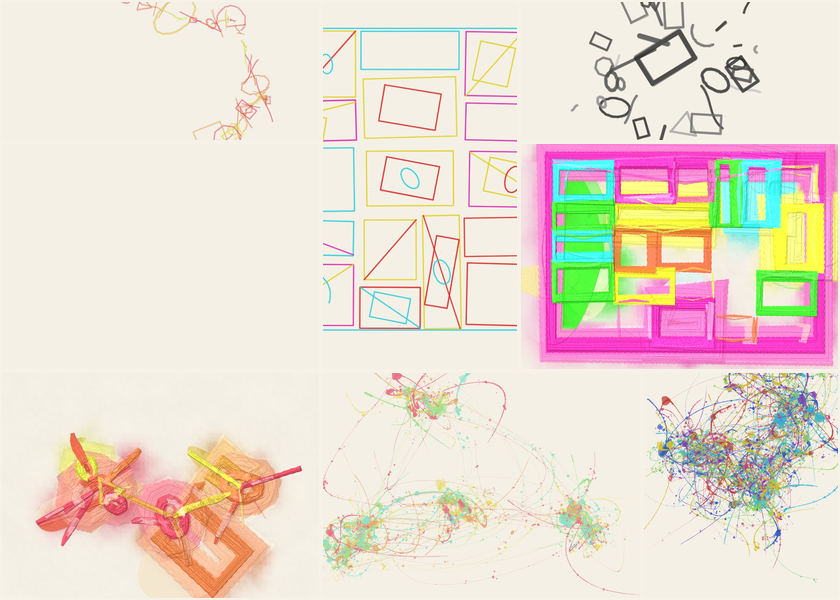
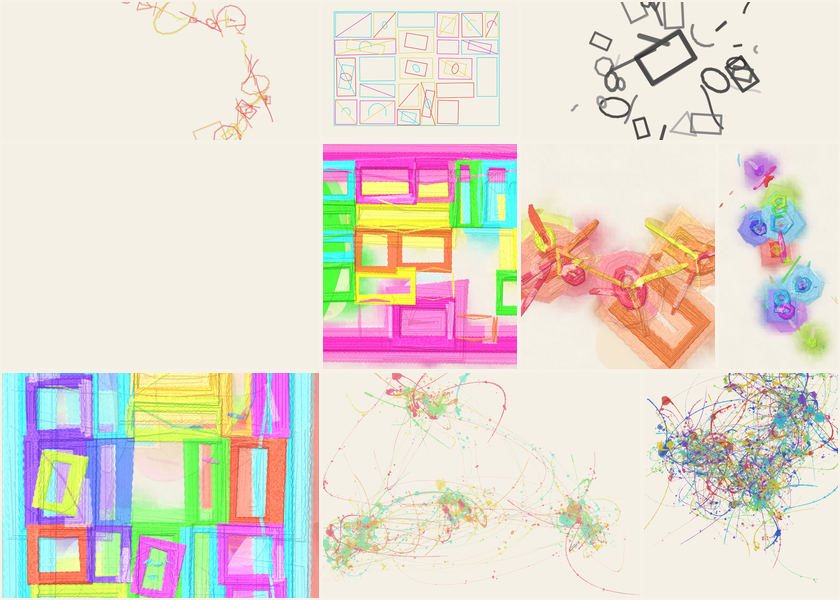
Archive ALGO ART gallery 2026-10-30

diff --git a/gallery/2026-10-30/index.html b/gallery/2026-10-30/index.html
@@ -4,7 +4,7 @@
 <meta charset="utf-8">
 <meta name="viewport" content="width=device-width,initial-scale=1">
 <title>PROPORTION PIECE Daily Gallery — 30 October 2026 | Golden Ratio Generative Art</title>
-<meta name="description" content="8 drawings made on 30 October 2026. Different materials, different compositions, and room to make each one your own.">
+<meta name="description" content="10 drawings made on 30 October 2026. Different materials, different compositions, and room to make each one your own.">
 <meta name="robots" content="index,follow,max-image-preview:large">
 <link rel="canonical" href="https://southernadd-cmyk.github.io/algoart/gallery/2026-10-30/">
 <link rel="icon" type="image/svg+xml" href="../../favicon.svg">
@@ -16,16 +16,16 @@
 <meta property="og:type" content="website">
 <meta property="og:site_name" content="PROPORTION PIECE">
 <meta property="og:title" content="PROPORTION PIECE Daily Gallery — 30 October 2026 | Golden Ratio Generative Art">
-<meta property="og:description" content="8 drawings made on 30 October 2026. Different materials, different compositions, and room to make each one your own.">
+<meta property="og:description" content="10 drawings made on 30 October 2026. Different materials, different compositions, and room to make each one your own.">
 <meta property="og:url" content="https://southernadd-cmyk.github.io/algoart/gallery/2026-10-30/">
 <meta property="og:image" content="https://southernadd-cmyk.github.io/algoart/gallery/2026-10-30/2026-10-30-01-spiral-AA-20261030-01-03093.jpg">
 <meta property="og:image:width" content="1400">
 <meta property="og:image:height" content="1000">
 <meta name="twitter:card" content="summary_large_image">
 <meta name="twitter:title" content="PROPORTION PIECE Daily Gallery — 30 October 2026 | Golden Ratio Generative Art">
-<meta name="twitter:description" content="8 drawings made on 30 October 2026. Different materials, different compositions, and room to make each one your own.">
+<meta name="twitter:description" content="10 drawings made on 30 October 2026. Different materials, different compositions, and room to make each one your own.">
 <meta name="twitter:image" content="https://southernadd-cmyk.github.io/algoart/gallery/2026-10-30/2026-10-30-01-spiral-AA-20261030-01-03093.jpg">
-<script type="application/ld+json">{"@context":"https://schema.org","@type":"CollectionPage","name":"PROPORTION PIECE Daily Gallery — 30 October 2026","description":"8 drawings made on 30 October 2026. Different materials, different compositions, and room to make each one your own.","url":"https://southernadd-cmyk.github.io/algoart/gallery/2026-10-30/","isPartOf":{"@type":"WebSite","name":"PROPORTION PIECE","url":"https://southernadd-cmyk.github.io/algoart/"},"about":["generative art","algorithmic art","golden ratio","creative coding","digital marker art"],"mainEntity":{"@type":"ItemList","numberOfItems":8,"itemListElement":[{"@type":"ListItem","position":1,"item":{"@type":"VisualArtwork","name":"Golden Trajectories — Study 01","description":"Golden Trajectories generative marker artwork using seed AA-20261030-01-03093, 99% Additional φ pull, dry pen and the warm palette.","image":"https://southernadd-cmyk.github.io/algoart/gallery/2026-10-30/2026-10-30-01-spiral-AA-20261030-01-03093.jpg","url":"https://southernadd-cmyk.github.io/algoart/?v=8&seed=AA-20261030-01-03093&mode=spiral&el=54&den=65&cx=73&neg=22&phi=99&rec=4&spi=86&ga=100&nest=23&pen=dry&th=5&wob=49&od=2&op=66&pr=34&dry=36&curve=68&shape=49&overlap=64&rot=68&ln=1&ci=1&re=1&po=1&ar=1&pal=warm&cols=7&sat=68&bri=58&paper=%23f5f0e6&grain=19&sheet=phi","artform":"Generative digital marker art","artMedium":"Browser canvas and deterministic algorithm","creator":{"@type":"Organization","name":"PROPORTION PIECE","url":"https://southernadd-cmyk.github.io/algoart/"}}},{"@type":"ListItem","position":2,"item":{"@type":"VisualArtwork","name":"Recursive Divisions — Study 02","description":"Recursive Divisions generative marker artwork using seed AA-20261030-02-25474, 98% Additional φ pull, fine pen and the cmyk palette.","image":"https://southernadd-cmyk.github.io/algoart/gallery/2026-10-30/2026-10-30-02-rects-AA-20261030-02-25474.jpg","url":"https://southernadd-cmyk.github.io/algoart/?v=8&seed=AA-20261030-02-25474&mode=rects&el=44&den=43&cx=72&neg=18&phi=98&rec=4&spi=21&ga=99&nest=44&pen=fine&th=7&wob=38&od=6&op=77&pr=28&dry=25&curve=12&shape=55&overlap=64&rot=60&ln=1&ci=1&re=1&po=1&ar=1&pal=cmyk&cols=4&sat=76&bri=52&paper=%23f5f0e6&grain=21&sheet=phi","artform":"Generative digital marker art","artMedium":"Browser canvas and deterministic algorithm","creator":{"@type":"Organization","name":"PROPORTION PIECE","url":"https://southernadd-cmyk.github.io/algoart/"}}},{"@type":"ListItem","position":3,"item":{"@type":"VisualArtwork","name":"Orbital Studies — Study 03","description":"Orbital Studies generative marker artwork using seed AP-20261030-01-72940, 98% Additional φ pull, felt pen and the mono palette.","image":"https://southernadd-cmyk.github.io/algoart/gallery/2026-10-30/2026-10-30-portrait-01-field-AP-20261030-01-72940.jpg","url":"https://southernadd-cmyk.github.io/algoart/?v=8&seed=AP-20261030-01-72940&mode=field&fmt=portrait&el=48&den=66&cx=73&neg=35&phi=98&rec=8&spi=50&ga=90&nest=24&pen=felt&th=9&wob=25&od=3&op=75&pr=42&dry=13&curve=51&shape=78&overlap=45&rot=98&ln=1&ci=1&re=1&po=1&ar=1&pal=mono&cols=6&sat=73&bri=50&paper=%23f5f0e6&grain=22&sheet=phi","artform":"Generative digital marker art","artMedium":"Browser canvas and deterministic algorithm","creator":{"@type":"Organization","name":"PROPORTION PIECE","url":"https://southernadd-cmyk.github.io/algoart/"}}},{"@type":"ListItem","position":4,"item":{"@type":"VisualArtwork","name":"Golden Trajectories — Study 04","description":"Golden Trajectories generative marker artwork using seed AP-20261030-02-50559, 85% Additional φ pull, dry pen and the neon palette.","image":"https://southernadd-cmyk.github.io/algoart/gallery/2026-10-30/2026-10-30-portrait-02-spiral-AP-20261030-02-50559.jpg","url":"https://southernadd-cmyk.github.io/algoart/?v=8&seed=AP-20261030-02-50559&mode=spiral&fmt=portrait&el=49&den=44&cx=49&neg=15&phi=85&rec=7&spi=90&ga=95&nest=25&pen=dry&th=13&wob=41&od=4&op=76&pr=54&dry=28&curve=71&shape=72&overlap=57&rot=82&ln=1&ci=1&re=1&po=1&ar=1&pal=neon&cols=4&sat=73&bri=60&paper=%23f5f0e6&grain=21&sheet=phi","artform":"Generative digital marker art","artMedium":"Browser canvas and deterministic algorithm","creator":{"@type":"Organization","name":"PROPORTION PIECE","url":"https://southernadd-cmyk.github.io/algoart/"}}},{"@type":"ListItem","position":5,"item":{"@type":"VisualArtwork","name":"Recursive Divisions — Tissue & Graphite Study 05","description":"Recursive Divisions Tissue & Graphite artwork using seed AWL-20261030-01-51052 and 87% Additional φ pull.","image":"https://southernadd-cmyk.github.io/algoart/gallery/2026-10-30/2026-10-30-watercolor-landscape-01-rects-AWL-20261030-01-51052.jpg","url":"https://southernadd-cmyk.github.io/algoart/?v=8&seed=AWL-20261030-01-51052&mode=rects&el=30&den=52&cx=72&neg=32&phi=87&rec=4&spi=10&ga=89&nest=57&pen=scribble&th=13&wob=49&od=6&op=70&pr=48&dry=21&curve=18&shape=58&overlap=63&rot=56&ln=1&ci=1&re=1&po=1&ar=1&pal=neon&cols=5&sat=81&bri=45&paper=%23f5f0e6&grain=20&tissue=7&sheet=phi","artform":"Tissue and graphite generative art","artMedium":"Browser canvas and deterministic algorithm","creator":{"@type":"Organization","name":"PROPORTION PIECE","url":"https://southernadd-cmyk.github.io/algoart/"}}},{"@type":"ListItem","position":6,"item":{"@type":"VisualArtwork","name":"Radiant Systems — Tissue & Graphite Study 06","description":"Radiant Systems Tissue & Graphite artwork using seed AWL-20261030-02-67029 and 84% Additional φ pull.","image":"https://southernadd-cmyk.github.io/algoart/gallery/2026-10-30/2026-10-30-watercolor-landscape-02-burst-AWL-20261030-02-67029.jpg","url":"https://southernadd-cmyk.github.io/algoart/?v=8&seed=AWL-20261030-02-67029&mode=burst&el=50&den=71&cx=75&neg=25&phi=84&rec=6&spi=53&ga=94&nest=27&pen=scribble&th=11&wob=37&od=4&op=88&pr=46&dry=22&curve=33&shape=65&overlap=57&rot=76&ln=1&ci=1&re=1&po=1&ar=1&pal=warm&cols=9&sat=70&bri=48&paper=%23f5f0e6&grain=20&tissue=7&sheet=phi","artform":"Tissue and graphite generative art","artMedium":"Browser canvas and deterministic algorithm","creator":{"@type":"Organization","name":"PROPORTION PIECE","url":"https://southernadd-cmyk.github.io/algoart/"}}},{"@type":"ListItem","position":7,"item":{"@type":"VisualArtwork","name":"Automatic Marks — Action Painting Study 07","description":"Automatic Marks Action Painting using seed ACL-20261030-01-80125, the pastel palette and geometry-guided flowing paint.","image":"https://southernadd-cmyk.github.io/algoart/gallery/2026-10-30/2026-10-30-action-landscape-01-scribble-ACL-20261030-01-80125.jpg","url":"https://southernadd-cmyk.github.io/algoart/?v=9&seed=ACL-20261030-01-80125&mode=scribble&el=46&den=37&cx=56&neg=31&phi=93&rec=7&spi=19&ga=87&nest=25&pen=felt&th=11&wob=41&od=5&op=84&pr=32&dry=8&curve=21&shape=52&overlap=33&rot=86&ln=1&ci=1&re=1&po=1&ar=1&pal=pastel&cols=5&sat=71&bri=47&paper=%23f5f0e6&grain=12&material=action-v4&sheet=phi","artform":"Generative action painting","artMedium":"Browser canvas and deterministic algorithm","creator":{"@type":"Organization","name":"PROPORTION PIECE","url":"https://southernadd-cmyk.github.io/algoart/"}}},{"@type":"ListItem","position":8,"item":{"@type":"VisualArtwork","name":"Radiant Systems — Action Painting Study 08","description":"Radiant Systems Action Painting using seed ACP-20261030-01-17643, the golden palette and geometry-guided flowing paint.","image":"https://southernadd-cmyk.github.io/algoart/gallery/2026-10-30/2026-10-30-action-portrait-01-burst-ACP-20261030-01-17643.jpg","url":"https://southernadd-cmyk.github.io/algoart/?v=9&seed=ACP-20261030-01-17643&mode=burst&fmt=portrait&el=54&den=62&cx=67&neg=36&phi=93&rec=5&spi=90&ga=92&nest=58&pen=scribble&th=10&wob=36&od=2&op=64&pr=49&dry=18&curve=55&shape=80&overlap=41&rot=81&ln=1&ci=1&re=1&po=1&ar=1&pal=golden&cols=8&sat=79&bri=47&paper=%23f5f0e6&grain=24&material=action-v4&sheet=phi","artform":"Generative action painting","artMedium":"Browser canvas and deterministic algorithm","creator":{"@type":"Organization","name":"PROPORTION PIECE","url":"https://southernadd-cmyk.github.io/algoart/"}}}]}}</script>
+<script type="application/ld+json">{"@context":"https://schema.org","@type":"CollectionPage","name":"PROPORTION PIECE Daily Gallery — 30 October 2026","description":"10 drawings made on 30 October 2026. Different materials, different compositions, and room to make each one your own.","url":"https://southernadd-cmyk.github.io/algoart/gallery/2026-10-30/","isPartOf":{"@type":"WebSite","name":"PROPORTION PIECE","url":"https://southernadd-cmyk.github.io/algoart/"},"about":["generative art","algorithmic art","golden ratio","creative coding","digital marker art"],"mainEntity":{"@type":"ItemList","numberOfItems":10,"itemListElement":[{"@type":"ListItem","position":1,"item":{"@type":"VisualArtwork","name":"Golden Trajectories — Study 01","description":"Golden Trajectories generative marker artwork using seed AA-20261030-01-03093, 99% Additional φ pull, dry pen and the warm palette.","image":"https://southernadd-cmyk.github.io/algoart/gallery/2026-10-30/2026-10-30-01-spiral-AA-20261030-01-03093.jpg","url":"https://southernadd-cmyk.github.io/algoart/?v=8&seed=AA-20261030-01-03093&mode=spiral&el=54&den=65&cx=73&neg=22&phi=99&rec=4&spi=86&ga=100&nest=23&pen=dry&th=5&wob=49&od=2&op=66&pr=34&dry=36&curve=68&shape=49&overlap=64&rot=68&ln=1&ci=1&re=1&po=1&ar=1&pal=warm&cols=7&sat=68&bri=58&paper=%23f5f0e6&grain=19&sheet=phi","artform":"Generative digital marker art","artMedium":"Browser canvas and deterministic algorithm","creator":{"@type":"Organization","name":"PROPORTION PIECE","url":"https://southernadd-cmyk.github.io/algoart/"}}},{"@type":"ListItem","position":2,"item":{"@type":"VisualArtwork","name":"Recursive Divisions — Study 02","description":"Recursive Divisions generative marker artwork using seed AA-20261030-02-25474, 98% Additional φ pull, fine pen and the cmyk palette.","image":"https://southernadd-cmyk.github.io/algoart/gallery/2026-10-30/2026-10-30-02-rects-AA-20261030-02-25474.jpg","url":"https://southernadd-cmyk.github.io/algoart/?v=8&seed=AA-20261030-02-25474&mode=rects&el=44&den=43&cx=72&neg=18&phi=98&rec=4&spi=21&ga=99&nest=44&pen=fine&th=7&wob=38&od=6&op=77&pr=28&dry=25&curve=12&shape=55&overlap=64&rot=60&ln=1&ci=1&re=1&po=1&ar=1&pal=cmyk&cols=4&sat=76&bri=52&paper=%23f5f0e6&grain=21&sheet=phi","artform":"Generative digital marker art","artMedium":"Browser canvas and deterministic algorithm","creator":{"@type":"Organization","name":"PROPORTION PIECE","url":"https://southernadd-cmyk.github.io/algoart/"}}},{"@type":"ListItem","position":3,"item":{"@type":"VisualArtwork","name":"Orbital Studies — Study 03","description":"Orbital Studies generative marker artwork using seed AP-20261030-01-72940, 98% Additional φ pull, felt pen and the mono palette.","image":"https://southernadd-cmyk.github.io/algoart/gallery/2026-10-30/2026-10-30-portrait-01-field-AP-20261030-01-72940.jpg","url":"https://southernadd-cmyk.github.io/algoart/?v=8&seed=AP-20261030-01-72940&mode=field&fmt=portrait&el=48&den=66&cx=73&neg=35&phi=98&rec=8&spi=50&ga=90&nest=24&pen=felt&th=9&wob=25&od=3&op=75&pr=42&dry=13&curve=51&shape=78&overlap=45&rot=98&ln=1&ci=1&re=1&po=1&ar=1&pal=mono&cols=6&sat=73&bri=50&paper=%23f5f0e6&grain=22&sheet=phi","artform":"Generative digital marker art","artMedium":"Browser canvas and deterministic algorithm","creator":{"@type":"Organization","name":"PROPORTION PIECE","url":"https://southernadd-cmyk.github.io/algoart/"}}},{"@type":"ListItem","position":4,"item":{"@type":"VisualArtwork","name":"Golden Trajectories — Study 04","description":"Golden Trajectories generative marker artwork using seed AP-20261030-02-50559, 85% Additional φ pull, dry pen and the neon palette.","image":"https://southernadd-cmyk.github.io/algoart/gallery/2026-10-30/2026-10-30-portrait-02-spiral-AP-20261030-02-50559.jpg","url":"https://southernadd-cmyk.github.io/algoart/?v=8&seed=AP-20261030-02-50559&mode=spiral&fmt=portrait&el=49&den=44&cx=49&neg=15&phi=85&rec=7&spi=90&ga=95&nest=25&pen=dry&th=13&wob=41&od=4&op=76&pr=54&dry=28&curve=71&shape=72&overlap=57&rot=82&ln=1&ci=1&re=1&po=1&ar=1&pal=neon&cols=4&sat=73&bri=60&paper=%23f5f0e6&grain=21&sheet=phi","artform":"Generative digital marker art","artMedium":"Browser canvas and deterministic algorithm","creator":{"@type":"Organization","name":"PROPORTION PIECE","url":"https://southernadd-cmyk.github.io/algoart/"}}},{"@type":"ListItem","position":5,"item":{"@type":"VisualArtwork","name":"Recursive Divisions — Tissue & Graphite Study 05","description":"Recursive Divisions Tissue & Graphite artwork using seed AWL-20261030-01-51052 and 87% Additional φ pull.","image":"https://southernadd-cmyk.github.io/algoart/gallery/2026-10-30/2026-10-30-watercolor-landscape-01-rects-AWL-20261030-01-51052.jpg","url":"https://southernadd-cmyk.github.io/algoart/?v=8&seed=AWL-20261030-01-51052&mode=rects&el=30&den=52&cx=72&neg=32&phi=87&rec=4&spi=10&ga=89&nest=57&pen=scribble&th=13&wob=49&od=6&op=70&pr=48&dry=21&curve=18&shape=58&overlap=63&rot=56&ln=1&ci=1&re=1&po=1&ar=1&pal=neon&cols=5&sat=81&bri=45&paper=%23f5f0e6&grain=20&tissue=7&sheet=phi","artform":"Tissue and graphite generative art","artMedium":"Browser canvas and deterministic algorithm","creator":{"@type":"Organization","name":"PROPORTION PIECE","url":"https://southernadd-cmyk.github.io/algoart/"}}},{"@type":"ListItem","position":6,"item":{"@type":"VisualArtwork","name":"Radiant Systems — Tissue & Graphite Study 06","description":"Radiant Systems Tissue & Graphite artwork using seed AWL-20261030-02-67029 and 84% Additional φ pull.","image":"https://southernadd-cmyk.github.io/algoart/gallery/2026-10-30/2026-10-30-watercolor-landscape-02-burst-AWL-20261030-02-67029.jpg","url":"https://southernadd-cmyk.github.io/algoart/?v=8&seed=AWL-20261030-02-67029&mode=burst&el=50&den=71&cx=75&neg=25&phi=84&rec=6&spi=53&ga=94&nest=27&pen=scribble&th=11&wob=37&od=4&op=88&pr=46&dry=22&curve=33&shape=65&overlap=57&rot=76&ln=1&ci=1&re=1&po=1&ar=1&pal=warm&cols=9&sat=70&bri=48&paper=%23f5f0e6&grain=20&tissue=7&sheet=phi","artform":"Tissue and graphite generative art","artMedium":"Browser canvas and deterministic algorithm","creator":{"@type":"Organization","name":"PROPORTION PIECE","url":"https://southernadd-cmyk.github.io/algoart/"}}},{"@type":"ListItem","position":7,"item":{"@type":"VisualArtwork","name":"Golden Trajectories — Tissue & Graphite Study 07","description":"Golden Trajectories Tissue & Graphite artwork using seed AWP-20261030-01-66888 and 90% Additional φ pull.","image":"https://southernadd-cmyk.github.io/algoart/gallery/2026-10-30/2026-10-30-watercolor-portrait-01-spiral-AWP-20261030-01-66888.jpg","url":"https://southernadd-cmyk.github.io/algoart/?v=8&seed=AWP-20261030-01-66888&mode=spiral&fmt=portrait&el=51&den=46&cx=51&neg=37&phi=90&rec=8&spi=74&ga=89&nest=52&pen=dry&th=10&wob=54&od=6&op=64&pr=32&dry=19&curve=53&shape=49&overlap=35&rot=95&ln=1&ci=1&re=1&po=1&ar=1&pal=spectrum&cols=9&sat=72&bri=44&paper=%23f5f0e6&grain=21&tissue=7&sheet=phi","artform":"Tissue and graphite generative art","artMedium":"Browser canvas and deterministic algorithm","creator":{"@type":"Organization","name":"PROPORTION PIECE","url":"https://southernadd-cmyk.github.io/algoart/"}}},{"@type":"ListItem","position":8,"item":{"@type":"VisualArtwork","name":"Recursive Divisions — Tissue & Graphite Study 08","description":"Recursive Divisions Tissue & Graphite artwork using seed AWP-20261030-02-79697 and 91% Additional φ pull.","image":"https://southernadd-cmyk.github.io/algoart/gallery/2026-10-30/2026-10-30-watercolor-portrait-02-rects-AWP-20261030-02-79697.jpg","url":"https://southernadd-cmyk.github.io/algoart/?v=8&seed=AWP-20261030-02-79697&mode=rects&fmt=portrait&el=31&den=52&cx=72&neg=12&phi=91&rec=5&spi=25&ga=93&nest=58&pen=scribble&th=11&wob=44&od=4&op=73&pr=47&dry=22&curve=12&shape=48&overlap=34&rot=67&ln=1&ci=1&re=1&po=1&ar=1&pal=spectrum&cols=10&sat=88&bri=56&paper=%23f5f0e6&grain=14&tissue=7&sheet=phi","artform":"Tissue and graphite generative art","artMedium":"Browser canvas and deterministic algorithm","creator":{"@type":"Organization","name":"PROPORTION PIECE","url":"https://southernadd-cmyk.github.io/algoart/"}}},{"@type":"ListItem","position":9,"item":{"@type":"VisualArtwork","name":"Automatic Marks — Action Painting Study 09","description":"Automatic Marks Action Painting using seed ACL-20261030-01-80125, the pastel palette and geometry-guided flowing paint.","image":"https://southernadd-cmyk.github.io/algoart/gallery/2026-10-30/2026-10-30-action-landscape-01-scribble-ACL-20261030-01-80125.jpg","url":"https://southernadd-cmyk.github.io/algoart/?v=9&seed=ACL-20261030-01-80125&mode=scribble&el=46&den=37&cx=56&neg=31&phi=93&rec=7&spi=19&ga=87&nest=25&pen=felt&th=11&wob=41&od=5&op=84&pr=32&dry=8&curve=21&shape=52&overlap=33&rot=86&ln=1&ci=1&re=1&po=1&ar=1&pal=pastel&cols=5&sat=71&bri=47&paper=%23f5f0e6&grain=12&material=action-v4&sheet=phi","artform":"Generative action painting","artMedium":"Browser canvas and deterministic algorithm","creator":{"@type":"Organization","name":"PROPORTION PIECE","url":"https://southernadd-cmyk.github.io/algoart/"}}},{"@type":"ListItem","position":10,"item":{"@type":"VisualArtwork","name":"Radiant Systems — Action Painting Study 10","description":"Radiant Systems Action Painting using seed ACP-20261030-01-17643, the golden palette and geometry-guided flowing paint.","image":"https://southernadd-cmyk.github.io/algoart/gallery/2026-10-30/2026-10-30-action-portrait-01-burst-ACP-20261030-01-17643.jpg","url":"https://southernadd-cmyk.github.io/algoart/?v=9&seed=ACP-20261030-01-17643&mode=burst&fmt=portrait&el=54&den=62&cx=67&neg=36&phi=93&rec=5&spi=90&ga=92&nest=58&pen=scribble&th=10&wob=36&od=2&op=64&pr=49&dry=18&curve=55&shape=80&overlap=41&rot=81&ln=1&ci=1&re=1&po=1&ar=1&pal=golden&cols=8&sat=79&bri=47&paper=%23f5f0e6&grain=24&material=action-v4&sheet=phi","artform":"Generative action painting","artMedium":"Browser canvas and deterministic algorithm","creator":{"@type":"Organization","name":"PROPORTION PIECE","url":"https://southernadd-cmyk.github.io/algoart/"}}}]}}</script>
 </head>
 <body>
 <header class="algo-global-header">
@@ -38,9 +38,9 @@
   <section class="hero">
     <div class="kicker">DAILY ARCHIVE / 2026-10-30</div>
     <h1>Drawings from<br>30 October 2026.</h1>
-    <p>8 drawings made on 30 October 2026. Different materials, different compositions, and room to make each one your own.</p>
+    <p>10 drawings made on 30 October 2026. Different materials, different compositions, and room to make each one your own.</p>
     <p class="visit-day-link"><a href="../visit/?date=2026-10-30">Walk this floor in 3D →</a></p>
-    <div class="hero-meta"><span>8 drawings</span><span>Different materials</span><span>Each one can be revisited</span></div>
+    <div class="hero-meta"><span>10 drawings</span><span>Different materials</span><span>Each one can be revisited</span></div>
   </section>
   <section class="grid" aria-label="Artwork generated on 30 October 2026">
     
@@ -176,12 +176,56 @@
       </div>
     </article>
 
-    <article id="2026-10-30-ACL01" class="art-card" data-orientation="landscape" data-material="action">
-      <a class="art-image-link" href="https://southernadd-cmyk.github.io/algoart/?v=9&amp;seed=ACL-20261030-01-80125&amp;mode=scribble&amp;el=46&amp;den=37&amp;cx=56&amp;neg=31&amp;phi=93&amp;rec=7&amp;spi=19&amp;ga=87&amp;nest=25&amp;pen=felt&amp;th=11&amp;wob=41&amp;od=5&amp;op=84&amp;pr=32&amp;dry=8&amp;curve=21&amp;shape=52&amp;overlap=33&amp;rot=86&amp;ln=1&amp;ci=1&amp;re=1&amp;po=1&amp;ar=1&amp;pal=pastel&amp;cols=5&amp;sat=71&amp;bri=47&amp;paper=%23f5f0e6&amp;grain=12&amp;material=action-v4&amp;sheet=phi" aria-label="Open and remix Automatic Marks — Action Painting Study 07 in PROPORTION PIECE">
-        <img src="2026-10-30-action-landscape-01-scribble-ACL-20261030-01-80125.jpg" width="1400" height="1000" loading="lazy" decoding="async" alt="Action painting from PROPORTION PIECE&#39;s Automatic Marks system, seed ACL-20261030-01-80125. Flowing paint skeins, irregular pools and splashes drawn from golden-ratio source geometry.">
+    <article id="2026-10-30-WP01" class="art-card" data-orientation="portrait" data-material="watercolor">
+      <a class="art-image-link" href="https://southernadd-cmyk.github.io/algoart/?v=8&amp;seed=AWP-20261030-01-66888&amp;mode=spiral&amp;fmt=portrait&amp;el=51&amp;den=46&amp;cx=51&amp;neg=37&amp;phi=90&amp;rec=8&amp;spi=74&amp;ga=89&amp;nest=52&amp;pen=dry&amp;th=10&amp;wob=54&amp;od=6&amp;op=64&amp;pr=32&amp;dry=19&amp;curve=53&amp;shape=49&amp;overlap=35&amp;rot=95&amp;ln=1&amp;ci=1&amp;re=1&amp;po=1&amp;ar=1&amp;pal=spectrum&amp;cols=9&amp;sat=72&amp;bri=44&amp;paper=%23f5f0e6&amp;grain=21&amp;tissue=7&amp;sheet=phi" aria-label="Open and remix Golden Trajectories — Tissue &amp; Graphite Study 07 in PROPORTION PIECE">
+        <img src="2026-10-30-watercolor-portrait-01-spiral-AWP-20261030-01-66888.jpg" width="1000" height="1400" loading="lazy" decoding="async" alt="Tissue and graphite artwork from PROPORTION PIECE&#39;s Golden Trajectories system, portrait study · seed AWP-20261030-01-66888. Golden-ratio composition with layered translucent colour, textured paper and darker marks.">
       </a>
       <div class="art-info">
         <div class="art-number">07</div>
+        <div>
+          <h2>Golden Trajectories · Tissue &amp; Graphite</h2>
+          
+          <dl>
+            <div><dt>Seed</dt><dd>AWP-20261030-01-66888</dd></div>
+            <div><dt>Series</dt><dd>Golden Trajectories</dd></div>
+            <div><dt>Format</dt><dd>Portrait · 1000 × 1400</dd></div>
+            <div><dt>Additional φ pull</dt><dd>90%</dd></div>
+            <div><dt>Material</dt><dd>Tissue &amp; Graphite</dd></div>
+            <div><dt>Palette</dt><dd>spectrum</dd></div>
+          </dl>
+          <a class="remix" href="https://southernadd-cmyk.github.io/algoart/?v=8&amp;seed=AWP-20261030-01-66888&amp;mode=spiral&amp;fmt=portrait&amp;el=51&amp;den=46&amp;cx=51&amp;neg=37&amp;phi=90&amp;rec=8&amp;spi=74&amp;ga=89&amp;nest=52&amp;pen=dry&amp;th=10&amp;wob=54&amp;od=6&amp;op=64&amp;pr=32&amp;dry=19&amp;curve=53&amp;shape=49&amp;overlap=35&amp;rot=95&amp;ln=1&amp;ci=1&amp;re=1&amp;po=1&amp;ar=1&amp;pal=spectrum&amp;cols=9&amp;sat=72&amp;bri=44&amp;paper=%23f5f0e6&amp;grain=21&amp;tissue=7&amp;sheet=phi">Open this drawing →</a>
+        </div>
+      </div>
+    </article>
+
+    <article id="2026-10-30-WP02" class="art-card" data-orientation="portrait" data-material="watercolor">
+      <a class="art-image-link" href="https://southernadd-cmyk.github.io/algoart/?v=8&amp;seed=AWP-20261030-02-79697&amp;mode=rects&amp;fmt=portrait&amp;el=31&amp;den=52&amp;cx=72&amp;neg=12&amp;phi=91&amp;rec=5&amp;spi=25&amp;ga=93&amp;nest=58&amp;pen=scribble&amp;th=11&amp;wob=44&amp;od=4&amp;op=73&amp;pr=47&amp;dry=22&amp;curve=12&amp;shape=48&amp;overlap=34&amp;rot=67&amp;ln=1&amp;ci=1&amp;re=1&amp;po=1&amp;ar=1&amp;pal=spectrum&amp;cols=10&amp;sat=88&amp;bri=56&amp;paper=%23f5f0e6&amp;grain=14&amp;tissue=7&amp;sheet=phi" aria-label="Open and remix Recursive Divisions — Tissue &amp; Graphite Study 08 in PROPORTION PIECE">
+        <img src="2026-10-30-watercolor-portrait-02-rects-AWP-20261030-02-79697.jpg" width="1000" height="1400" loading="lazy" decoding="async" alt="Tissue and graphite artwork from PROPORTION PIECE&#39;s Recursive Divisions system, portrait study · seed AWP-20261030-02-79697. Golden-ratio composition with layered translucent colour, textured paper and darker marks.">
+      </a>
+      <div class="art-info">
+        <div class="art-number">08</div>
+        <div>
+          <h2>Recursive Divisions · Tissue &amp; Graphite</h2>
+          
+          <dl>
+            <div><dt>Seed</dt><dd>AWP-20261030-02-79697</dd></div>
+            <div><dt>Series</dt><dd>Recursive Divisions</dd></div>
+            <div><dt>Format</dt><dd>Portrait · 1000 × 1400</dd></div>
+            <div><dt>Additional φ pull</dt><dd>91%</dd></div>
+            <div><dt>Material</dt><dd>Tissue &amp; Graphite</dd></div>
+            <div><dt>Palette</dt><dd>spectrum</dd></div>
+          </dl>
+          <a class="remix" href="https://southernadd-cmyk.github.io/algoart/?v=8&amp;seed=AWP-20261030-02-79697&amp;mode=rects&amp;fmt=portrait&amp;el=31&amp;den=52&amp;cx=72&amp;neg=12&amp;phi=91&amp;rec=5&amp;spi=25&amp;ga=93&amp;nest=58&amp;pen=scribble&amp;th=11&amp;wob=44&amp;od=4&amp;op=73&amp;pr=47&amp;dry=22&amp;curve=12&amp;shape=48&amp;overlap=34&amp;rot=67&amp;ln=1&amp;ci=1&amp;re=1&amp;po=1&amp;ar=1&amp;pal=spectrum&amp;cols=10&amp;sat=88&amp;bri=56&amp;paper=%23f5f0e6&amp;grain=14&amp;tissue=7&amp;sheet=phi">Open this drawing →</a>
+        </div>
+      </div>
+    </article>
+
+    <article id="2026-10-30-ACL01" class="art-card" data-orientation="landscape" data-material="action">
+      <a class="art-image-link" href="https://southernadd-cmyk.github.io/algoart/?v=9&amp;seed=ACL-20261030-01-80125&amp;mode=scribble&amp;el=46&amp;den=37&amp;cx=56&amp;neg=31&amp;phi=93&amp;rec=7&amp;spi=19&amp;ga=87&amp;nest=25&amp;pen=felt&amp;th=11&amp;wob=41&amp;od=5&amp;op=84&amp;pr=32&amp;dry=8&amp;curve=21&amp;shape=52&amp;overlap=33&amp;rot=86&amp;ln=1&amp;ci=1&amp;re=1&amp;po=1&amp;ar=1&amp;pal=pastel&amp;cols=5&amp;sat=71&amp;bri=47&amp;paper=%23f5f0e6&amp;grain=12&amp;material=action-v4&amp;sheet=phi" aria-label="Open and remix Automatic Marks — Action Painting Study 09 in PROPORTION PIECE">
+        <img src="2026-10-30-action-landscape-01-scribble-ACL-20261030-01-80125.jpg" width="1400" height="1000" loading="lazy" decoding="async" alt="Action painting from PROPORTION PIECE&#39;s Automatic Marks system, seed ACL-20261030-01-80125. Flowing paint skeins, irregular pools and splashes drawn from golden-ratio source geometry.">
+      </a>
+      <div class="art-info">
+        <div class="art-number">09</div>
         <div>
           <h2>Automatic Marks · Action Painting</h2>
           
@@ -199,11 +243,11 @@
     </article>
 
     <article id="2026-10-30-ACP01" class="art-card" data-orientation="portrait" data-material="action">
-      <a class="art-image-link" href="https://southernadd-cmyk.github.io/algoart/?v=9&amp;seed=ACP-20261030-01-17643&amp;mode=burst&amp;fmt=portrait&amp;el=54&amp;den=62&amp;cx=67&amp;neg=36&amp;phi=93&amp;rec=5&amp;spi=90&amp;ga=92&amp;nest=58&amp;pen=scribble&amp;th=10&amp;wob=36&amp;od=2&amp;op=64&amp;pr=49&amp;dry=18&amp;curve=55&amp;shape=80&amp;overlap=41&amp;rot=81&amp;ln=1&amp;ci=1&amp;re=1&amp;po=1&amp;ar=1&amp;pal=golden&amp;cols=8&amp;sat=79&amp;bri=47&amp;paper=%23f5f0e6&amp;grain=24&amp;material=action-v4&amp;sheet=phi" aria-label="Open and remix Radiant Systems — Action Painting Study 08 in PROPORTION PIECE">
+      <a class="art-image-link" href="https://southernadd-cmyk.github.io/algoart/?v=9&amp;seed=ACP-20261030-01-17643&amp;mode=burst&amp;fmt=portrait&amp;el=54&amp;den=62&amp;cx=67&amp;neg=36&amp;phi=93&amp;rec=5&amp;spi=90&amp;ga=92&amp;nest=58&amp;pen=scribble&amp;th=10&amp;wob=36&amp;od=2&amp;op=64&amp;pr=49&amp;dry=18&amp;curve=55&amp;shape=80&amp;overlap=41&amp;rot=81&amp;ln=1&amp;ci=1&amp;re=1&amp;po=1&amp;ar=1&amp;pal=golden&amp;cols=8&amp;sat=79&amp;bri=47&amp;paper=%23f5f0e6&amp;grain=24&amp;material=action-v4&amp;sheet=phi" aria-label="Open and remix Radiant Systems — Action Painting Study 10 in PROPORTION PIECE">
         <img src="2026-10-30-action-portrait-01-burst-ACP-20261030-01-17643.jpg" width="1000" height="1400" loading="lazy" decoding="async" alt="Action painting from PROPORTION PIECE&#39;s Radiant Systems system, seed ACP-20261030-01-17643. Flowing paint skeins, irregular pools and splashes drawn from golden-ratio source geometry.">
       </a>
       <div class="art-info">
-        <div class="art-number">08</div>
+        <div class="art-number">10</div>
         <div>
           <h2>Radiant Systems · Action Painting</h2>
           
@@ -221,7 +265,7 @@
     </article>
   </section>
   <section class="about">
-    <span class="section-no">09</span>
+    <span class="section-no">11</span>
     <div>
       <h2>THE SAME PROPORTION.<br>DIFFERENT MARKS.</h2>
       <p>The golden ratio helps arrange each drawing. The material changes how those arrangements feel. Open a piece to see its settings, then change whatever you like.</p>

diff --git a/gallery/index.html b/gallery/index.html
@@ -48,7 +48,7 @@
     
     <article class="day-card">
       <a href="./2026-10-30/">
-        <img src="./2026-10-30/archive-preview.jpg?v=2026-10-30-8" width="840" height="600" loading="eager" decoding="async" fetchpriority="high" onerror="this.onerror=null;this.src='./2026-10-30/2026-10-30-01-spiral-AA-20261030-01-03093.jpg'" alt="Recursive Divisions mosaic showing the artworks from 30 October 2026">
+        <img src="./2026-10-30/archive-preview.jpg?v=2026-10-30-10" width="840" height="600" loading="eager" decoding="async" fetchpriority="high" onerror="this.onerror=null;this.src='./2026-10-30/2026-10-30-01-spiral-AA-20261030-01-03093.jpg'" alt="Recursive Divisions mosaic showing the artworks from 30 October 2026">
         <div>
           <h2>30 October 2026</h2>
         </div>
